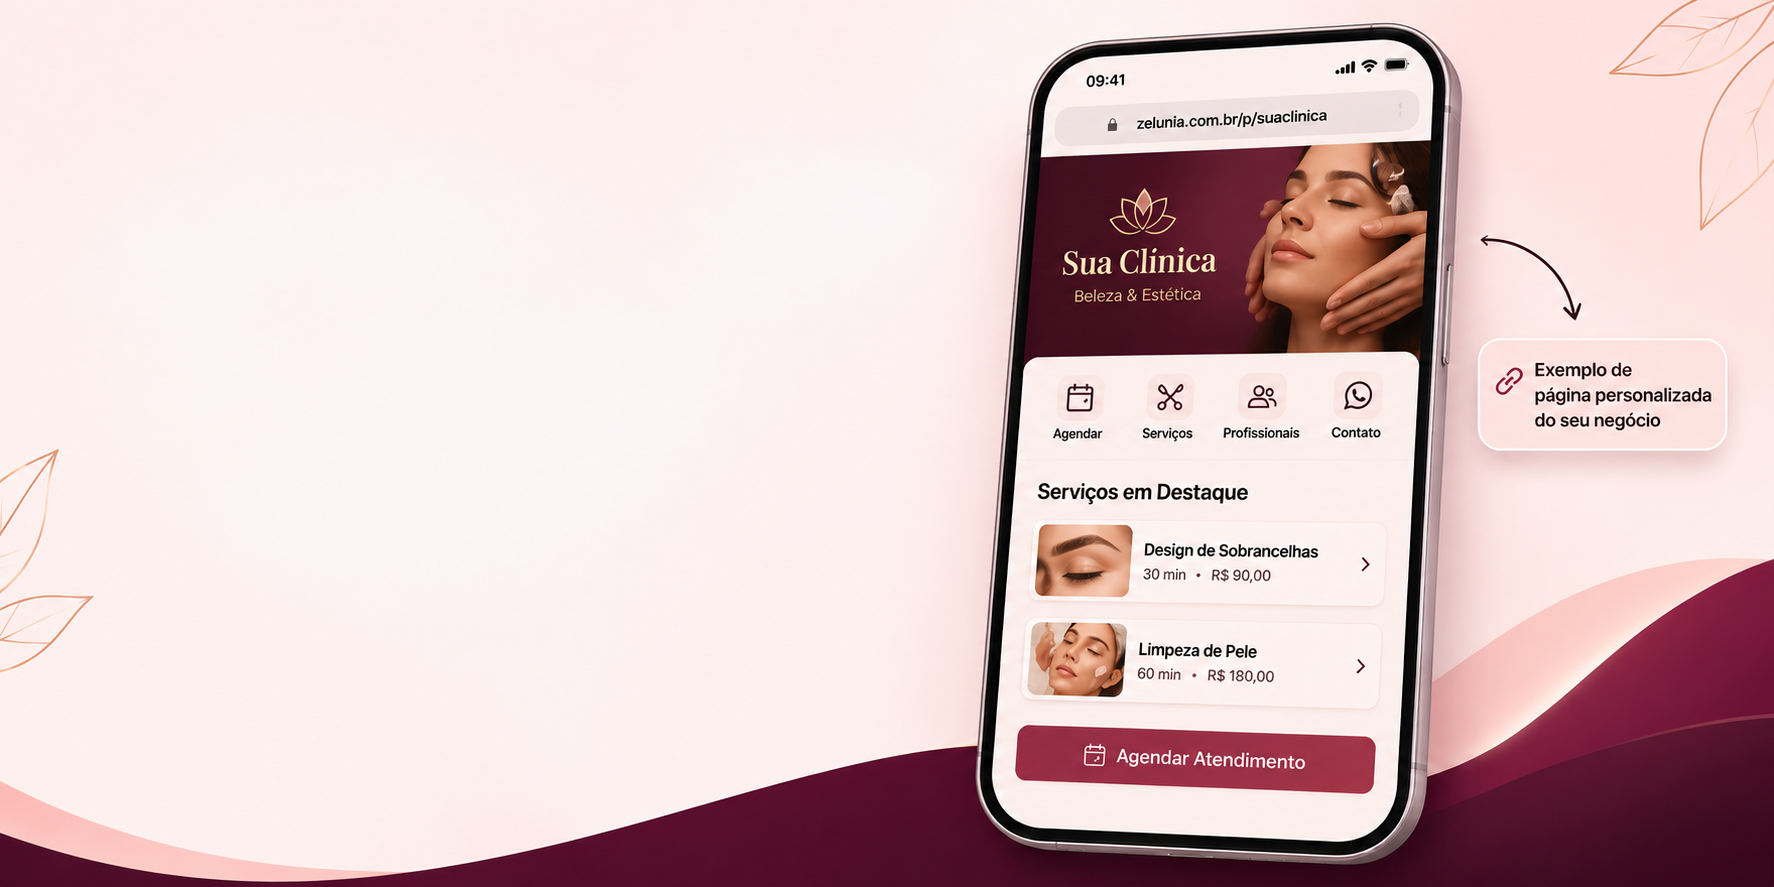
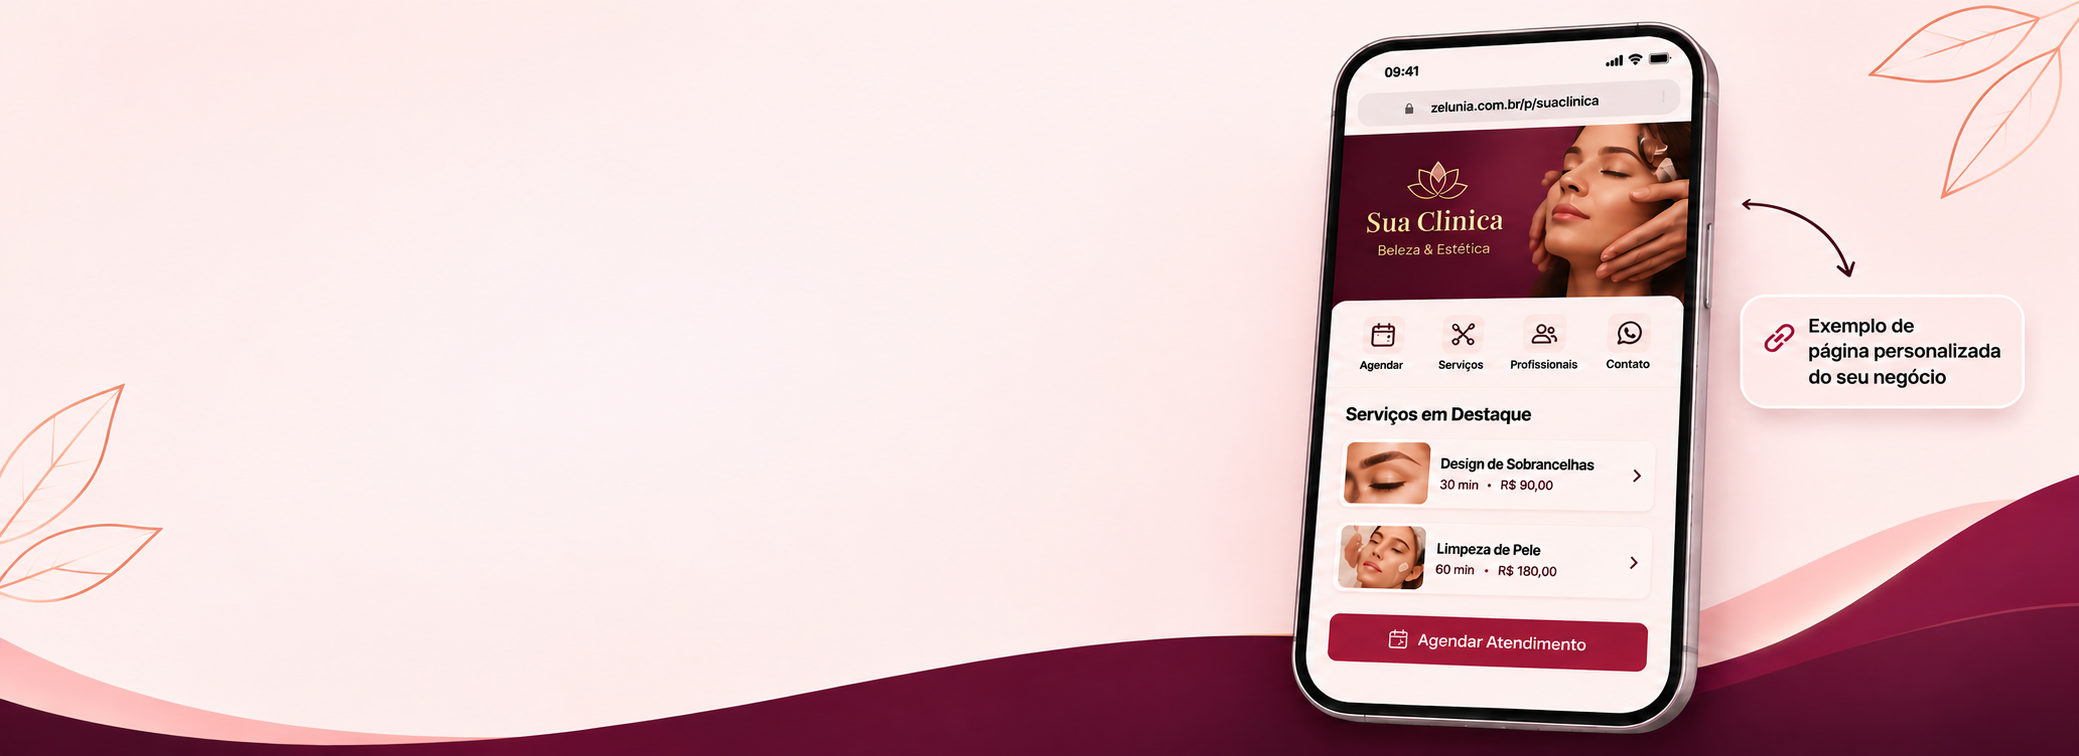
style(landing): integrar nova imagem panoramica bg_app.png sem espaco lateral

diff --git a/src/app/page.tsx b/src/app/page.tsx
@@ -293,22 +293,17 @@ export default function HomePage() {
       <section
         className="zelunia-vitrine-section relative w-full overflow-hidden bg-[#FAF4EE]"
       >
-        {/* Estilo responsivo inline para background perfeito sem cortes */}
+        {/* Estilo responsivo inline para background perfeito cobrindo toda a largura */}
         <style dangerouslySetInnerHTML={{ __html: `
           .zelunia-vitrine-section {
-            background-image: url('/img/bg_app2.png');
+            background-image: url('/img/bg_app.png');
             background-repeat: no-repeat;
-          }
-          @media (min-width: 1024px) {
-            .zelunia-vitrine-section {
-              background-position: right center !important;
-              background-size: contain !important;
-            }
+            background-size: cover !important;
+            background-position: right center !important;
           }
           @media (max-width: 1023px) {
             .zelunia-vitrine-section {
               background-position: right bottom !important;
-              background-size: cover !important;
             }
           }
         `}} />
